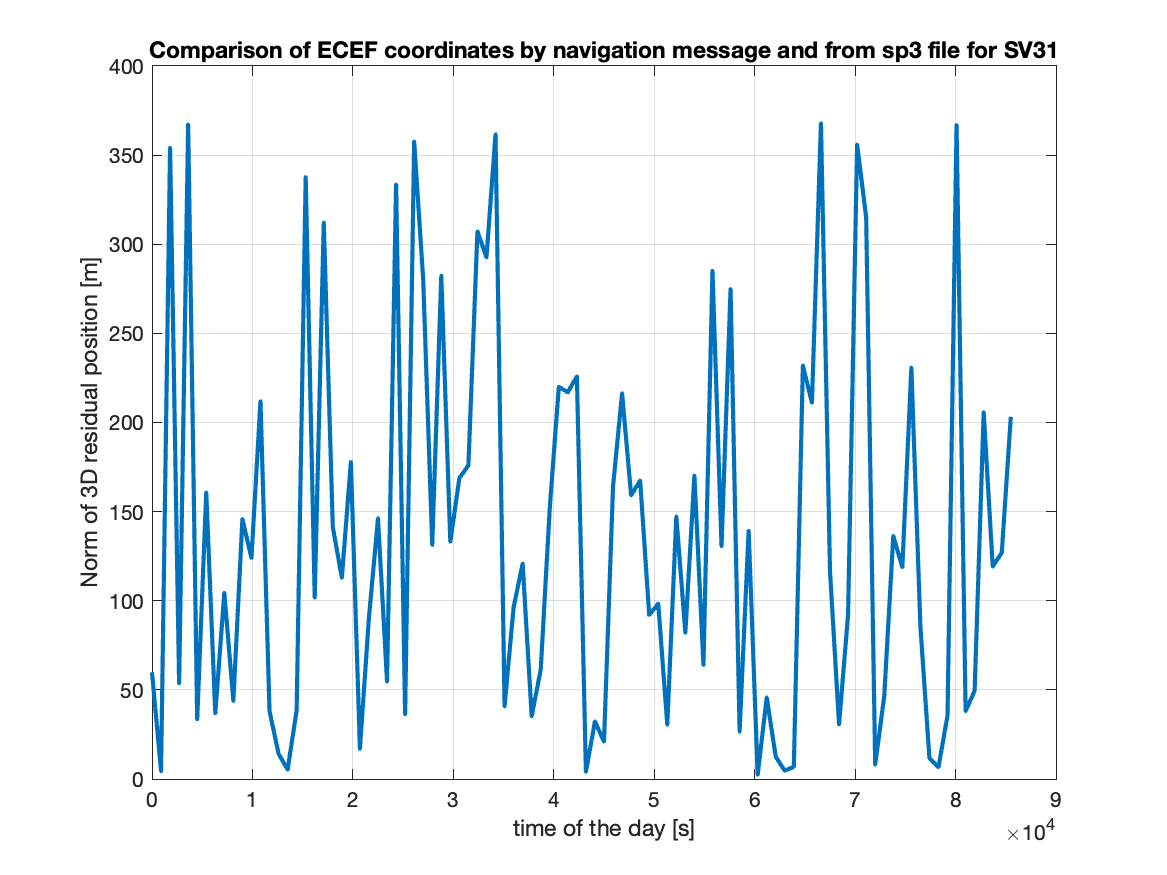
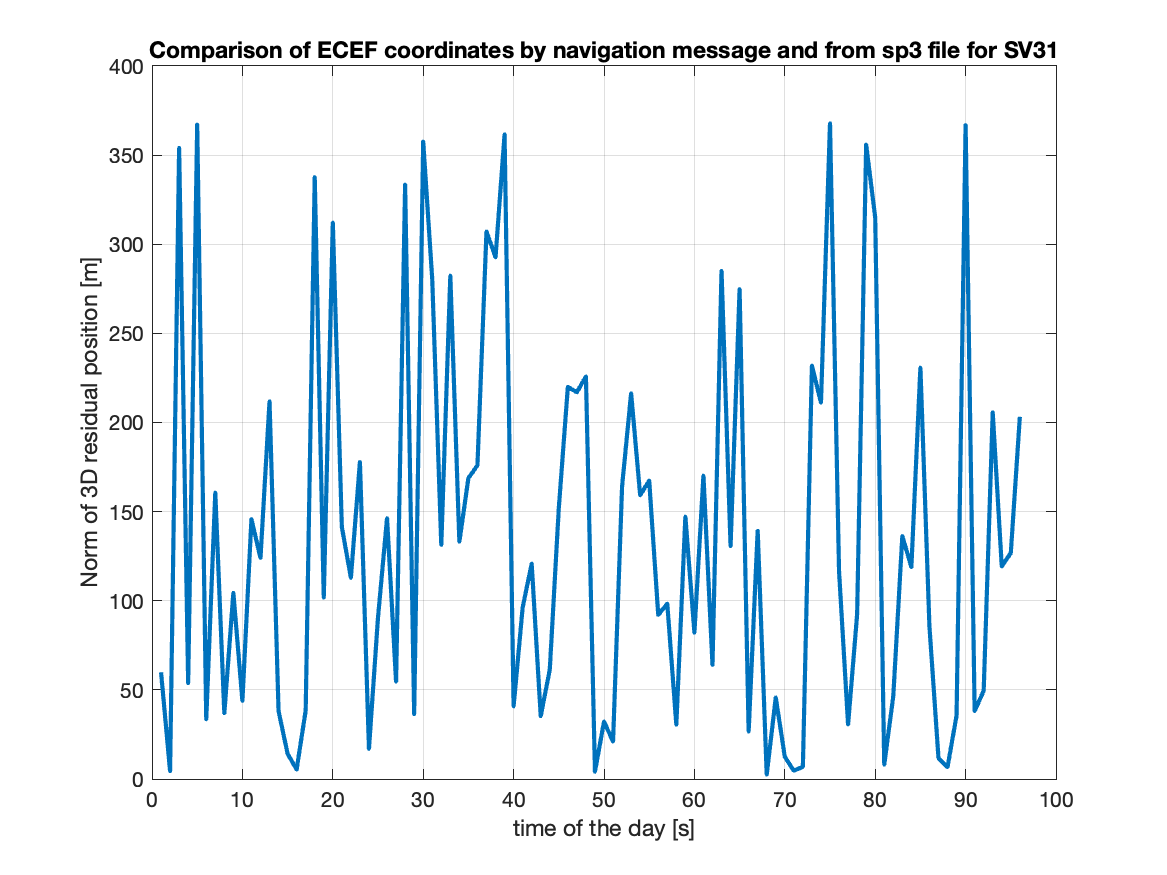
updat

diff --git a/hw_3/hw3_main.m b/hw_3/hw3_main.m
@@ -19,20 +19,20 @@ elseif task ==2
     % first with for loop than vectorized!
     % times = linspace(0,24*3600-1,96)';
     % t = [6;7];
-    % t = t*3600*24;
-    %rho = getsatpos(t, sv, eph)
+    t = 6*3600*24;
+    rho = getsatpos(t, sv, eph)
     
-    begin_epoch_interest = 518400;
-    end_epoch_interest = 603900;
-    time_del_steps = 15*60;
-    entries = (end_epoch_interest-begin_epoch_interest)/time_del_steps;
-    rho = zeros(3, entries);
-    i = 1;
-    for time = begin_epoch_interest:time_del_steps:end_epoch_interest 
-        rho(:,i) = getsatpos(time, sv, eph);
-        i = i+1;
-    end
-    save('rho.mat','rho')
+    % begin_epoch_interest = 518400;
+    % end_epoch_interest = 603900;
+    % time_del_steps = 15*60;
+    % entries = (end_epoch_interest-begin_epoch_interest)/time_del_steps;
+    % rho = zeros(3, entries);
+    % i = 1;
+    % for time = begin_epoch_interest:time_del_steps:end_epoch_interest 
+    %     rho(:,i) = getsatpos(time, sv, eph);
+    %     i = i+1;
+    % end
+    % save('rho.mat','rho')
 
 
 elseif task == 2.5
@@ -43,16 +43,28 @@ elseif task == 2.5
     residual = sqrt((rho(:,1)-reference_data(:,2)).^2 ...
         +(rho(:,2)-reference_data(:,3)).^2 ...
         + (rho(:,3)-reference_data(:,4)).^2);
-    plot(reference_data(:,1),residual, 'LineWidth', 2);
-    %xticklabels(reference_data(:,1));
+    plot(residual, 'LineWidth', 2);
+    % new_labels = xticklabels*0.25
+    % xticklabels(new_labels);
     title("Comparison of ECEF coordinates by navigation message and from sp3 file for SV31");
     xlabel("time of the day [s]");
     ylabel("Norm of 3D residual position [m]");
     grid on
     saveas(gcf, 'comparison_ECEF_rho_sp3.png'); 
+    absolute_diff_X = abs(rho(:,1)-reference_data(:,2));
+    absolute_diff_Y = abs(rho(:,2)-reference_data(:,3));
+    absolute_diff_Z = abs(rho(:,3)-reference_data(:,4));
+    % figure
+    % plot(absolute_diff_X)
+    % figure
+    % plot(absolute_diff_Y)
+    % figure
+    % plot(absolute_diff_Z)
 end
 
 % Taks 3)
-% The error, difference in a range of 350m seems 
-% quite big (wrong). This would be improved as soon as
-% more than one sv are used.  
+% The error, difference in a range of 350m is 
+% a facto 100 greater than the expected one 
+% (than it should be). There must be a mistake in 
+% my calculation of rho (probably in one variable)
+% that causes these additional 100m offset in all directions.
